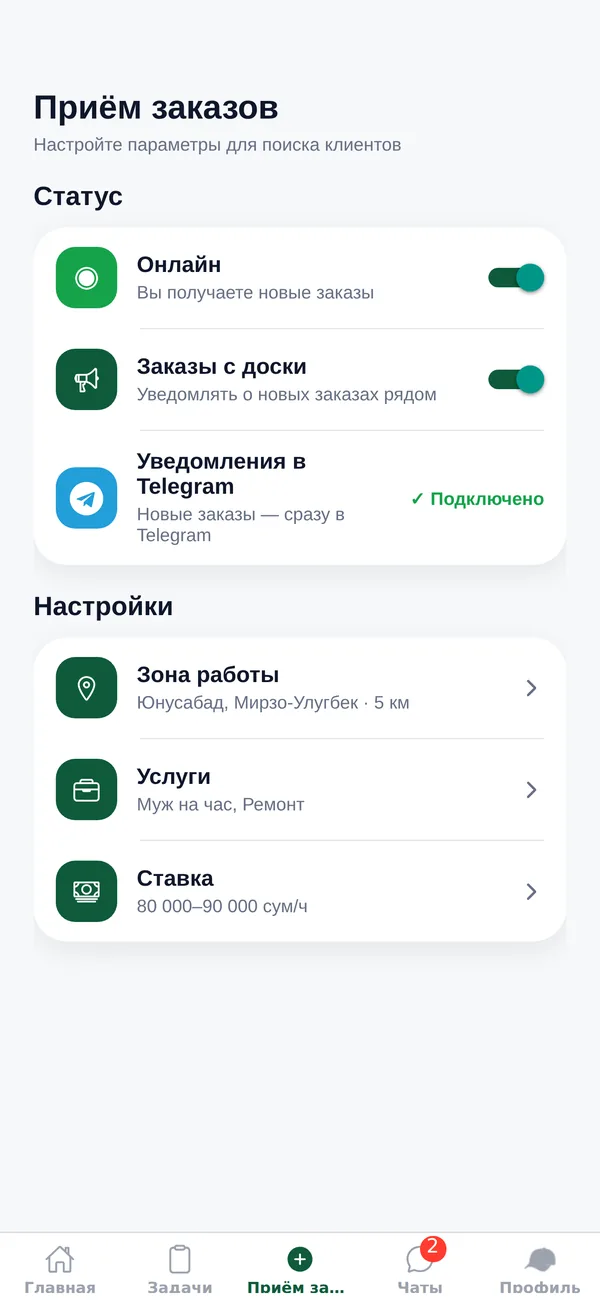
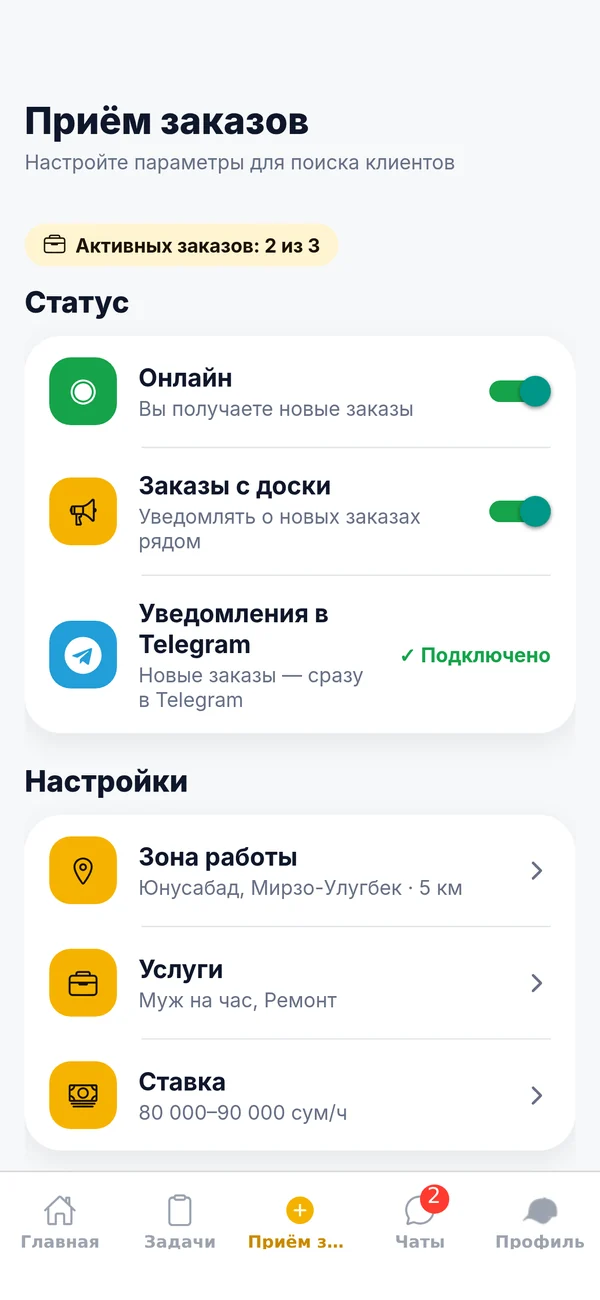
Site: fresh app screenshots in RU/UZ/EN (executor in gold), language follows on all pages
- new screenshots rendered from the current app build: tasks, receive, order, chat, home
- Uzbek screenshots added; images switch with the site language
- legal and delete-account pages open in the language chosen on the site and remember it

Claude-Session: https://claude.ai/code/session_0113oxvnBU9nNg39XL5UrQZH

diff --git a/legal.html b/legal.html
@@ -169,7 +169,7 @@ let lang='RU', doc='terms';
 
 function render(){
   const t=L[lang];
-  document.documentElement.lang=lang.toLowerCase();
+  document.documentElement.lang=lang.toLowerCase(); document.title=TITLES[lang];
   kicker.textContent=t.kicker; title.textContent=t.title; lede.textContent=t.lede;
   document.getElementById('tab-terms').textContent=t.terms;
   document.getElementById('tab-privacy').textContent=t.privacy;
@@ -177,8 +177,19 @@ function render(){
   document.getElementById('docs').innerHTML='<article>'+DOCS[lang+'|'+doc]+'</article>';
 }
 
+
+/* язык: ?lang=, затем выбор на сайте (taskbor_lang), затем язык браузера */
+const TITLES={"RU": "TASK BOR — условия использования и политика конфиденциальности", "UZ": "TASK BOR — foydalanish shartlari va maxfiylik siyosati", "EN": "TASK BOR — terms of use and privacy policy"};
+function pickLang(){
+  const q=(location.search.match(/[?&]lang=(ru|uz|en)/i)||[])[1]; if(q) return q.toUpperCase();
+  try{const v=localStorage.getItem('taskbor_lang'); if(v&&/^(ru|uz|en)$/.test(v)) return v.toUpperCase();}catch(e){}
+  const n=(navigator.language||'ru').slice(0,2).toLowerCase(); return n==='uz'?'UZ':n==='en'?'EN':'RU';
+}
+function saveLang(){try{localStorage.setItem('taskbor_lang',lang.toLowerCase())}catch(e){}}
+lang=pickLang();
+document.querySelectorAll('.langs button').forEach(x=>x.classList.toggle('on',x.dataset.lang===lang));
 document.querySelectorAll('.langs button').forEach(b=>b.onclick=()=>{
-  lang=b.dataset.lang;
+  lang=b.dataset.lang; saveLang();
   document.querySelectorAll('.langs button').forEach(x=>x.classList.toggle('on',x===b));
   render();
 });

diff --git a/delete-account.html b/delete-account.html
@@ -241,7 +241,7 @@ EN: {
 
 function render(){
   const t = L[lang];
-  document.documentElement.lang = lang.toLowerCase();
+  document.documentElement.lang = lang.toLowerCase(); document.title=TITLES[lang];
   kicker.textContent=t.kicker; title.textContent=t.title; lede.textContent=t.lede;
   document.getElementById('lbl-phone').textContent=t.lblPhone;
   document.getElementById('hint-phone').textContent=t.hintPhone;
@@ -260,8 +260,19 @@ function render(){
   foot.textContent=t.foot;
 }
 
+
+/* язык: ?lang=, затем выбор на сайте (taskbor_lang), затем язык браузера */
+const TITLES={"RU": "TASK BOR — удаление аккаунта", "UZ": "TASK BOR — akkauntni oʻchirish", "EN": "TASK BOR — delete account"};
+function pickLang(){
+  const q=(location.search.match(/[?&]lang=(ru|uz|en)/i)||[])[1]; if(q) return q.toUpperCase();
+  try{const v=localStorage.getItem('taskbor_lang'); if(v&&/^(ru|uz|en)$/.test(v)) return v.toUpperCase();}catch(e){}
+  const n=(navigator.language||'ru').slice(0,2).toLowerCase(); return n==='uz'?'UZ':n==='en'?'EN':'RU';
+}
+function saveLang(){try{localStorage.setItem('taskbor_lang',lang.toLowerCase())}catch(e){}}
+lang=pickLang();
+document.querySelectorAll('.langs button').forEach(x=>x.classList.toggle('on',x.dataset.lang===lang));
 document.querySelectorAll('.langs button').forEach(b=>b.onclick=()=>{
-  lang=b.dataset.lang;
+  lang=b.dataset.lang; saveLang();
   document.querySelectorAll('.langs button').forEach(x=>x.classList.toggle('on',x===b));
   render();
 });

diff --git a/index.html b/index.html
@@ -25,7 +25,6 @@
 <link rel="preconnect" href="https://fonts.googleapis.com">
 <link rel="preconnect" href="https://fonts.gstatic.com" crossorigin>
 <link href="https://fonts.googleapis.com/css2?family=Manrope:wght@400;500;600;700;800&display=swap" rel="stylesheet">
-<link rel="preload" as="image" href="img/ru_home.webp">
 <link rel="stylesheet" href="vendor/maplibre/maplibre-gl.css">
 <link rel="preconnect" href="https://tiles.openfreemap.org" crossorigin>
 <script type="application/ld+json">
@@ -764,7 +763,7 @@ function pickLang(){
   var s=store(); var v=s&&(function(){try{return s.getItem('taskbor_lang')}catch(e){return null}})(); if(v&&T[v]) return v;
   var n=(navigator.language||'ru').slice(0,2).toLowerCase(); return n==='uz'?'uz':n==='en'?'en':'ru';
 }
-function shot(name){return 'img/'+(lang==='en'?'en':'ru')+'_'+name+'.webp'}
+function shot(name){return 'img/'+(lang==='en'||lang==='uz'?lang:'ru')+'_'+name+'.webp'}
 function esc(s){return s.replace(/&/g,'&amp;').replace(/</g,'&lt;')}
 function renderStores(){
   var t=T[lang];
